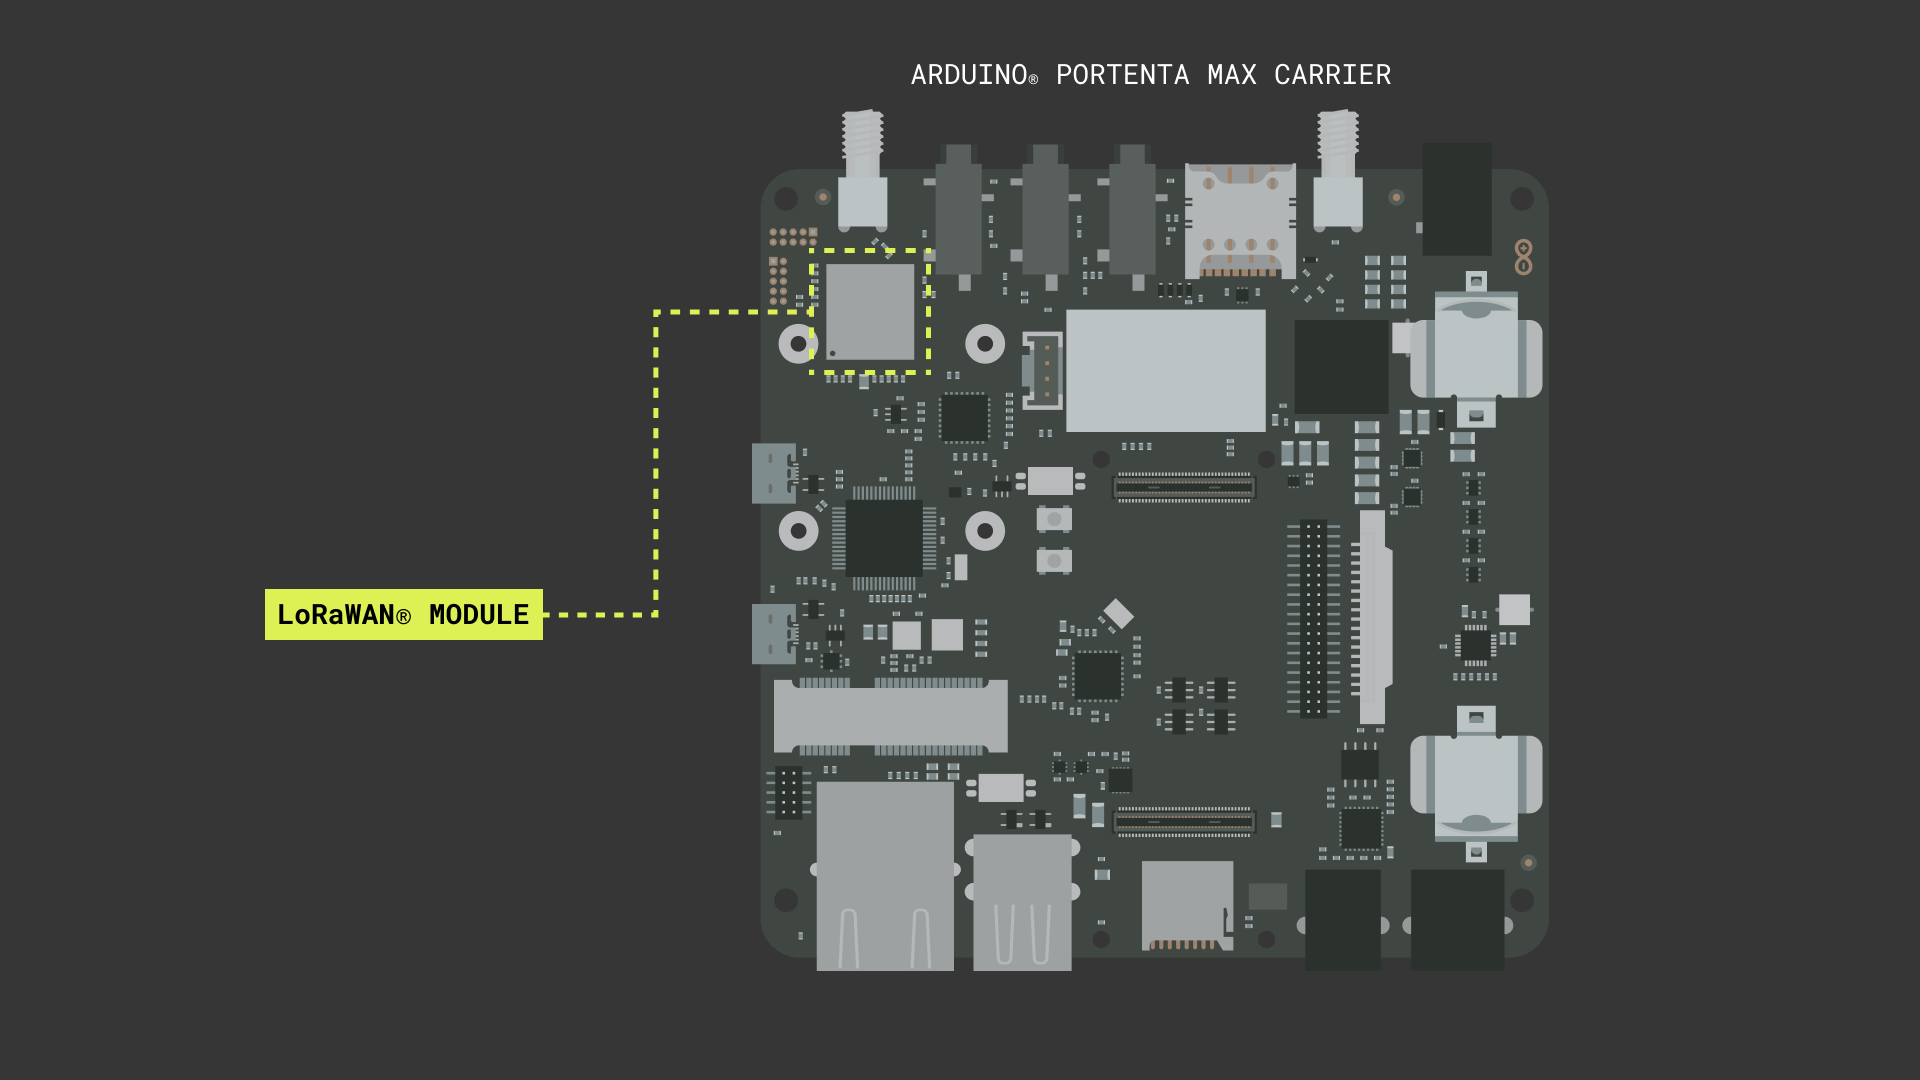
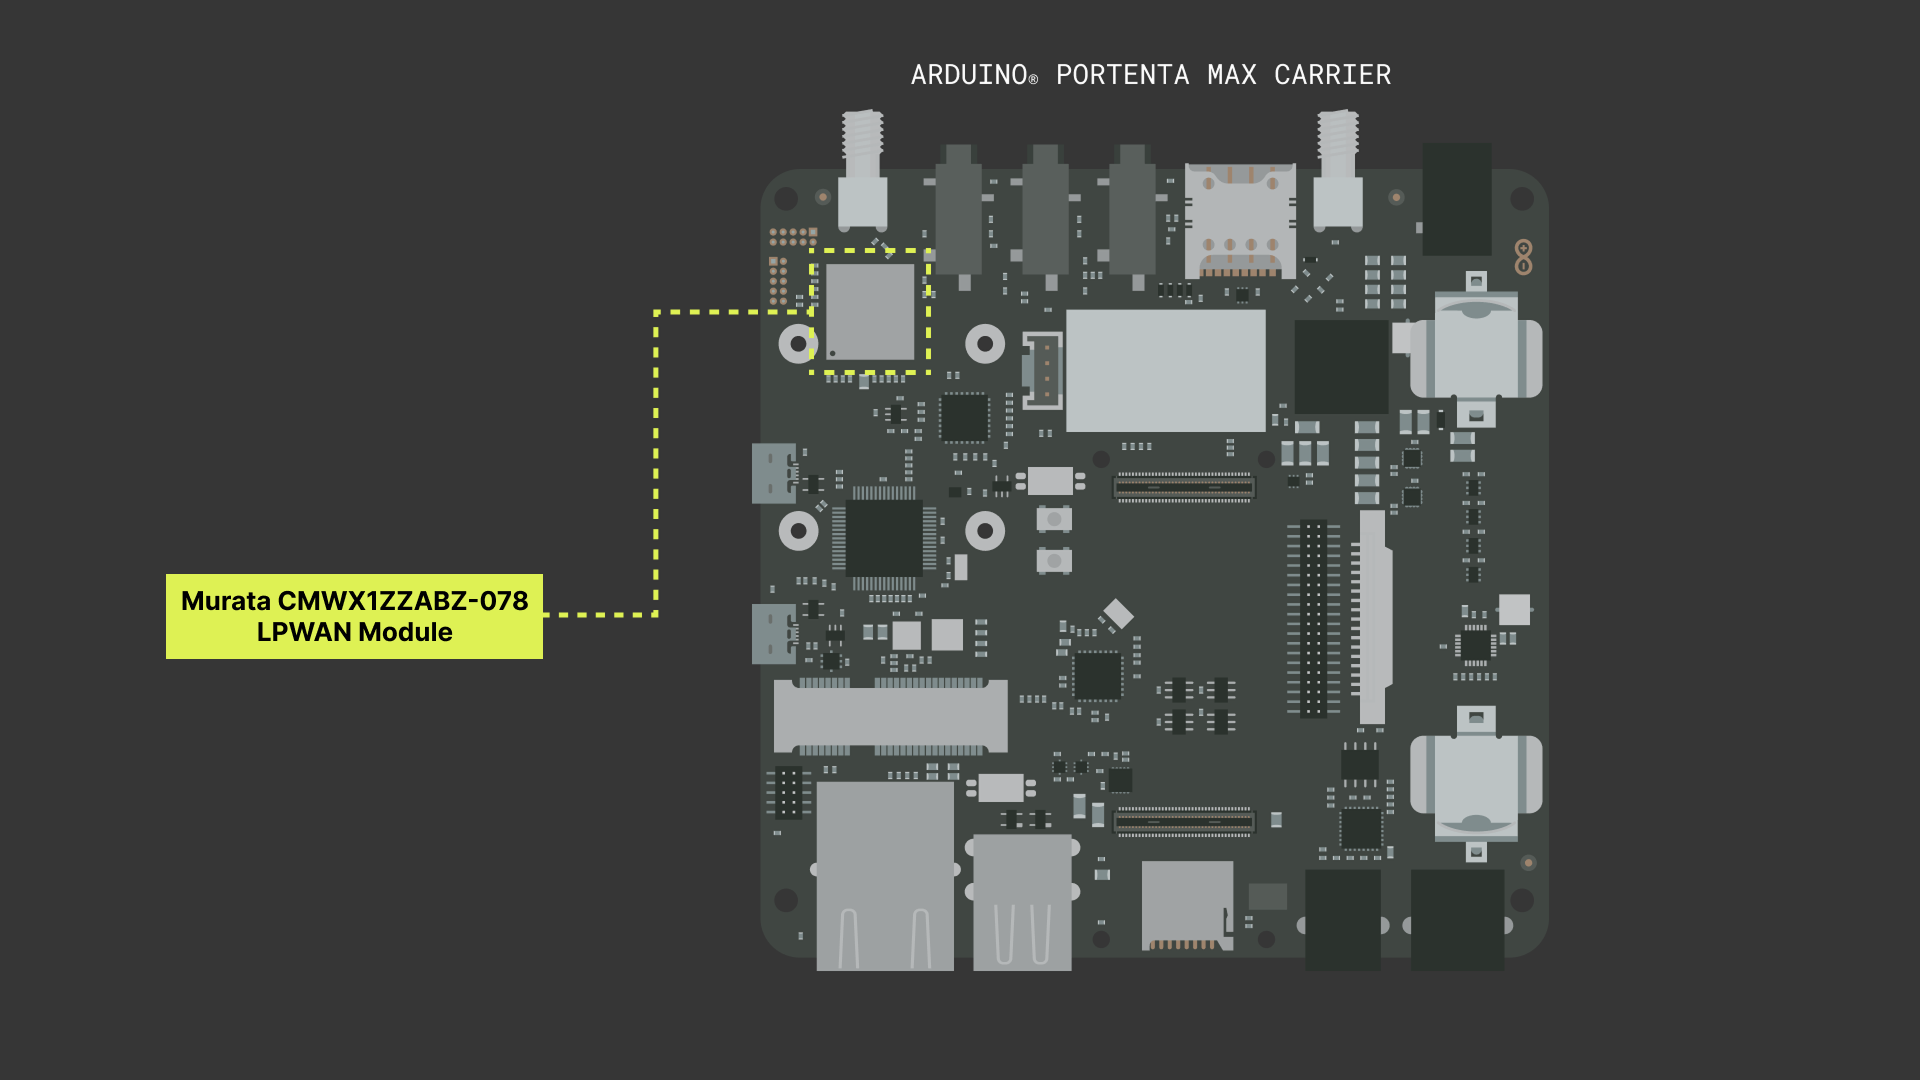
Connecting the Portenta Max Carrier to The Things Network content update (1 image update)

Changed region(s): [[0.0625, 0.5194, 0.2812, 0.6111]]

diff --git a/content/hardware/04.pro/carriers/portenta-max-carrier/tutorials/connecting-to-ttn/content.md b/content/hardware/04.pro/carriers/portenta-max-carrier/tutorials/connecting-to-ttn/content.md
@@ -1,10 +1,10 @@
 ---
 title: Connecting the Portenta Max Carrier to The Things Network
-description: This tutorial explains how to connect your Portenta Max Carrier to the Things Network(TTN) using its onboard LoRaWAN® module.
+description: This tutorial explains how to connect your Portenta Max Carrier to the Things Network(TTN) using its onboard LPWAN module.
 difficulty: intermediate
 tags:
   - IoT
-  - LoRaWAN®
+  - LoRa®
 author: Taddy Chung, José Bagur
 libraries:
   - name: MKRWAN
@@ -18,13 +18,12 @@ software:
 
 ## Overview
 
-This tutorial explains how to connect your [Arduino® Max Carrier](http://store.arduino.cc/portenta-max-carrier), with an [Arduino® Portenta H7](https://store.arduino.cc/products/portenta-h7) to The Things Network (TTN) using its onboard LoRaWAN® module. The article will focus on achieving communication between the Max Carrier and an application on TTN. 
+This tutorial explains how to connect your [Arduino® Max Carrier](http://store.arduino.cc/portenta-max-carrier), with an [Arduino® Portenta H7](https://store.arduino.cc/products/portenta-h7) to The Things Network (TTN) using its onboard LPWAN module. The article will focus on achieving communication between the Max Carrier and an application on TTN. 
 
 ## Goals
 
-* Enable LoRaWAN® connectivity on the Portenta Max Carrier.
+* Enable LoRa® connectivity on the Portenta Max Carrier.
 * Establish a connection between the Portenta Max Carrier and TTN.
-
 
 ### Required Hardware and Software
 
@@ -36,17 +35,17 @@ This tutorial explains how to connect your [Arduino® Max Carrier](http://store.
 - [Arduino MKRWAN library](https://github.com/arduino-libraries/MKRWAN)
 - An active account in [TTN](https://www.thethingsnetwork.org/)
 
-## The Arduino® Portenta Max Carrier LoRaWAN® Module
+## Arduino® Portenta Max Carrier LPWAN Module
 
-The Portenta Max Carrier provides you with an unlimited range of applications, from robotics and medical devices to industrial or automotive applications; the Max Carrier possibilities are endless. One feature that boosts Portenta's Max Carrier possibilities is its **onboard LoRaWAN® module**, the [CMWX1ZZABZ-078](https://www.murata.com/products/connectivitymodule/lpwa/overview/lineup/type-abz-078) from Murata®. LoRaWAN® is a Low Power Wide Area Network (LPWAN) designed to connect low power devices to the Internet. It was developed to meet and fulfill Internet of Things (IoT) devices' requirements, such as low-power consumption and low data throughput. 
+The Portenta Max Carrier provides you with an unlimited range of applications, from robotics and medical devices to industrial or automotive applications; the Max Carrier possibilities are endless. One feature that boosts Portenta's Max Carrier possibilities is its **onboard LPWAN module**, the [CMWX1ZZABZ-078](https://www.murata.com/products/connectivitymodule/lpwa/overview/lineup/type-abz-078) from Murata®. LoRa®-based network is a type of Low Power Wide Area Network (LPWAN) designed to connect low power devices to the Internet. It was developed to meet and fulfill Internet of Things (IoT) devices' requirements, such as low-power consumption and low data throughput. 
 
-![CMWX1ZZABZ-078 LoRaWAN® module in the Portenta Max Carrier.](assets/mc_ard_ttn_module.png)
+![CMWX1ZZABZ-078 LPWAN module in the Portenta Max Carrier.](assets/mc_ard_ttn_module.png)
 
-***For more in-depth information about LoRa® and LoRaWAN®, please read [The Arduino Guide to LoRa® and LoRaWAN®](/learn/communication/lorawan-101).***
+***For more in-depth information about LoRa® and its networks, please refer to [this documentation](/learn/communication/lorawan-101).***
 
 ## Connecting to TTN
 
-Let's start sending data to TTN using the Portenta Max Carrier LoRaWAN® module. To do this, you will need a TTN account and to be in the range of a public TTN gateway. You can check the [world map](https://www.thethingsnetwork.org/map) of public gateways connected to TTN and see if your region already has a gateway installed. If not, consider installing one!
+Let's start sending data to TTN using the Portenta Max Carrier's LPWAN module. To do this, you will need a TTN account and to be in the range of a public TTN gateway. You can check the [world map](https://www.thethingsnetwork.org/map) of public gateways connected to TTN and see if your region already has a gateway installed. If not, consider installing one!
 
 ***Check out [this](https://www.thethingsnetwork.org/docs/gateways/) article from TTN, where you can find how to buy or build your gateway to extend TTN coverage in your region.***
 
@@ -64,21 +63,21 @@ Let's start!
 
 Begin by attaching the Arduino® Portenta H7 board to the high-density connectors of the Portenta Max Carrier, as shown in the image below:
 
-![CMWX1ZZABZ-078 LoRaWAN® module in the Portenta Max Carrier.](assets/mc_ard_hd_ttn_connectors.png)
+![CMWX1ZZABZ-078 module with LoRa® technology on the Portenta Max Carrier.](assets/mc_ard_hd_ttn_connectors.png)
 
-To power the CMWX1ZZABZ-078 LoRaWAN® module of the Portenta Max Carrier, you can use the **DC power jack** (with a 4.5V to 36V external DC power supply) of the Portenta Max Carrier or a **18650 3.7V Li-Ion battery**, connected to the Portenta Max Carrier battery clips; you can power the module also directly from the USB-C® connector of the Portenta H7 board. **Also, do not forget to attach an 868-915 MHz antenna to the SMA connector (J9) on the Max Carrier**.
+To power the Murata CMWX1ZZABZ-078 module with LoRa® technology on the Portenta Max Carrier, you can use the **DC power jack** (with a 4.5V to 36V external DC power supply) of the Portenta Max Carrier or a **18650 3.7V Li-Ion battery**, connected to the Portenta Max Carrier battery clips; you can power the module also directly from the USB-C® connector of the Portenta H7 board. **Also, do not forget to attach an 868-915 MHz antenna to the SMA connector (J9) on the Max Carrier**.
 
-![Power sources and LoRa® antenna connector in the Portenta Max Carrier.](assets/mc_ard_ttn_power.png)
+![Power sources and LoRa® antenna connector on the Portenta Max Carrier.](assets/mc_ard_ttn_power.png)
 
-***Using the LoRaWAN® module of the Portenta Max Carrier without an antenna may damage it. Please, do not forget to connect a suitable antenna to the dedicated SMA connector (J9) on the Portenta Max Carrier.***
+***Using the LPWAN module of the Portenta Max Carrier without an antenna may damage it. Please, do not forget to connect a suitable antenna to the dedicated SMA connector (J9) on the Portenta Max Carrier.***
 
 Now you can connect the Portenta H7 board to your computer using a USB-C® cable. **Don't forget to change the position of the BOOT DIP switch (SW1) to OFF** ; otherwise, you will not be able to program your Portenta H7 board when attached to the Portenta Max Carrier.
 
-![Power sources and LoRa® antenna connector in the Portenta Max Carrier.](assets/mc_ard_ttn_boot_sel.png)
+![BOOT DIP Switches on the Portenta Max Carrier.](assets/mc_ard_ttn_boot_sel.png)
 
 ### 2. Setting up the Software
 
-You can use several Arduino libraries with the CMWX1ZZABZ-078 LoRaWAN® module from Murata®; we recommend the [MKRWAN library](https://github.com/arduino-libraries/MKRWAN), developed by the Arduino Team. The MKRWAN library provides you with the APIs to communicate with LoRa® and LoRaWAN® networks using the CMWX1ZZABZ-078 module. You can use this library in the Arduino IDE, both [online](https://create.arduino.cc/editor) and [offline](https://www.arduino.cc/en/software). 
+You can use several Arduino libraries with the CMWX1ZZABZ-078 LPWAN module from Murata®; we recommend the [MKRWAN library](https://github.com/arduino-libraries/MKRWAN), developed by the Arduino Team. The MKRWAN library provides you with the APIs for LoRa® connectivity using the CMWX1ZZABZ-078 module. You can use this library in the Arduino IDE, both [online](https://create.arduino.cc/editor) and [offline](https://www.arduino.cc/en/software). 
 
 If you are using the online IDE, you don't need to do anything; the library is already installed and ready to be used. If you are using the offline IDE, you must install the library **manually**. Installing the library can be done quickly by navigating to **Tools > Manage Libraries...** and then in the **Library Manager** search for **MKRWAN** library by Arduino; remember to install the latest version of the libraries. You can also access the Library Manager using the left toolbar of the IDE, as shown in the image below:
 
@@ -93,9 +92,9 @@ To use the MKRWAN library with the Portenta Max Carrier, you must define `PORTEN
 #include <MKRWAN.h>
 ```
 
-#### 2.1 Updating the LoRaWAN® Module Firmware
+#### 2.1 Updating the LPWAN Module Firmware
 
-The LoRaWAN® module firmware of the Portenta Max Carrier **must be updated** before its first use. This can be done using the example sketch `MKRWANFWUpdate_standalone` of the MKRWAN library. You can open this example by navigating to **File > Examples > MKRWAN**. Before uploading the sketch to the Portenta H7 board, open the `MKRWANFWUpdate_standalone.ino` file and define `PORTENTA_CARRIER` before the library inclusion, as shown in the image below:
+The LPWAN module firmware of the Portenta Max Carrier **must be updated** before its first use. This can be done using the example sketch `MKRWANFWUpdate_standalone` of the MKRWAN library. You can open this example by navigating to **File > Examples > MKRWAN**. Before uploading the sketch to the Portenta H7 board, open the `MKRWANFWUpdate_standalone.ino` file and define `PORTENTA_CARRIER` before the library inclusion, as shown in the image below:
 
 ![Library Manager in the Arduino IDE 2.](assets/mc_ard_ttn_firmware_1.png)
 
@@ -104,7 +103,7 @@ Upload the sketch, open the Serial Monitor and wait for the firmware update to f
 
 ### 3. Provisioning the Arduino® Portenta Max Carrier
 
-Device provisioning is a process comparable to bank card numbering. Let's think about bank cards; bank cards numbers start with a six-digit vendor ID number that indicates who allocated and controls the card's security; the remaining digits are unique numbers associated with a specific card. Devices with LoRa® and LoRaWAN® capabilities have a similar system; the **Join Server Unique Identifier** (usually referred to as `JoinEUI`) is a number that manages the security and authorizes the device in a network, while the **Device Unique Identifier** (usually referred to as `DevEUI`) is a unique number that identifies the device. The `JoinEUI` and `DevEUI` are required to send information to TTN; the `JoinEUI` number is provided by the network (in this case TTN) while the `DevEUI` is provided by the manufacturer of the device's LoRa® module. 
+Device provisioning is a process comparable to bank card numbering. Let's think about bank cards; bank cards numbers start with a six-digit vendor ID number that indicates who allocated and controls the card's security; the remaining digits are unique numbers associated with a specific card. Devices with LoRa® capabilities have a similar system; the **Join Server Unique Identifier** (usually referred to as `JoinEUI`) is a number that manages the security and authorizes the device in a network, while the **Device Unique Identifier** (usually referred to as `DevEUI`) is a unique number that identifies the device. The `JoinEUI` and `DevEUI` are required to send information to TTN; the `JoinEUI` number is provided by the network (in this case TTN) while the `DevEUI` is provided by the manufacturer of the device's LPWAN module. 
 
 The following sketch lets you find out what is the `DevEUI` of your Portenta Max Carrier: 
 
@@ -168,13 +167,13 @@ Now, scroll to **End devices** in the left toolbar and then click on **Add end d
 On the registration page, click on **Manually**; you will have to add the following information for your Portenta Max Carrier:
 
 * **Frequency plan**: choose a region according to your country.
-* **LoRaWAN® version**: 1.0.2.
+* **LoRa® technology version**: 1.0.2.
 * **Regional Parameters version**: 1.0.2.
 
-Click on Show advanced activation, **LoRaWAN® class and cluster settings** and choose: 
+Click on Show advanced activation, **LoRa® class and cluster settings** and choose: 
 
 * **Activation mode**: Over the air activation (OTAA).
-* **Additional LoRaWAN® class capabilities**: None (class A only).
+* **Additional LoRa® class capabilities**: None (class A only).
 * **Network defaults**: Use network's default MAC settings.
 
 Leave the **Cluster settings** option unchecked. Then continue with the following information:
@@ -204,7 +203,7 @@ LoRaModem modem(SerialLoRa);
 void setup() {
   Serial.begin(115200);
   while (!Serial);
-  Serial.println(F("Portenta Max Carrier LoRaWAN Example (OTAA)"));
+  Serial.println(F("Portenta Max Carrier LoRa Example (OTAA)"));
   
   if (!modem.begin(region)) {
     Serial.println(F("Failed to start the module..."));
@@ -266,11 +265,11 @@ In your device overview dashboard on TTN, you should see changes in data activit
 
 ## Conclusion
 
-You have now successfully configured and used the onboard LoRaWAN® module of your Portenta Max Carrier. You also have learned how to correctly setup a TTN application and enable LoRaWAN® connectivity between a TTN application and the Portenta Max Carrier.
+You have now successfully configured and used the onboard LPWAN module of your Portenta Max Carrier. You also have learned how to correctly setup a TTN application and enable LoRa® connectivity between a TTN application and the Portenta Max Carrier.
 
 ### Next Steps
 
-- Scale up the usage of Portenta Max Carrier by using its additional peripherals and turning them into interesting industrial-grade projects, taking advantage of LoRaWAN® connectivity.
+- Scale up the usage of Portenta Max Carrier by using its additional peripherals and turning them into interesting industrial-grade projects, taking advantage of LoRa® connectivity.
   
 ## Troubleshooting
 
@@ -279,3 +278,7 @@ While working on the sketch or when tried to upload the sketch, the Arduino IDE 
 * If the sketch upload process fails, check if your Portenta H7 is in bootloader mode. To put the Portenta H7 into Bootloader mode, double-press its RESET button and verify that the green LED is waving. After this, you can try re-uploading the sketch.
 * Check the position of the BOOT DIP switch of the Portenta Max Carrier. If the Portenta H7 gets into bootloader mode immediately after power-on, including when connected via USB-C®, change the position of the BOOT DIP switch to OFF.
 * If the Arduino IDE fails to compile the sketch, check if you have defined `PORTENTA_CARRIER` before the MKRWAN library inclusion.
+
+## Trademark Acknowledgments
+
+- **LoRa®** is a registered trademark of Semtech Corporation.
